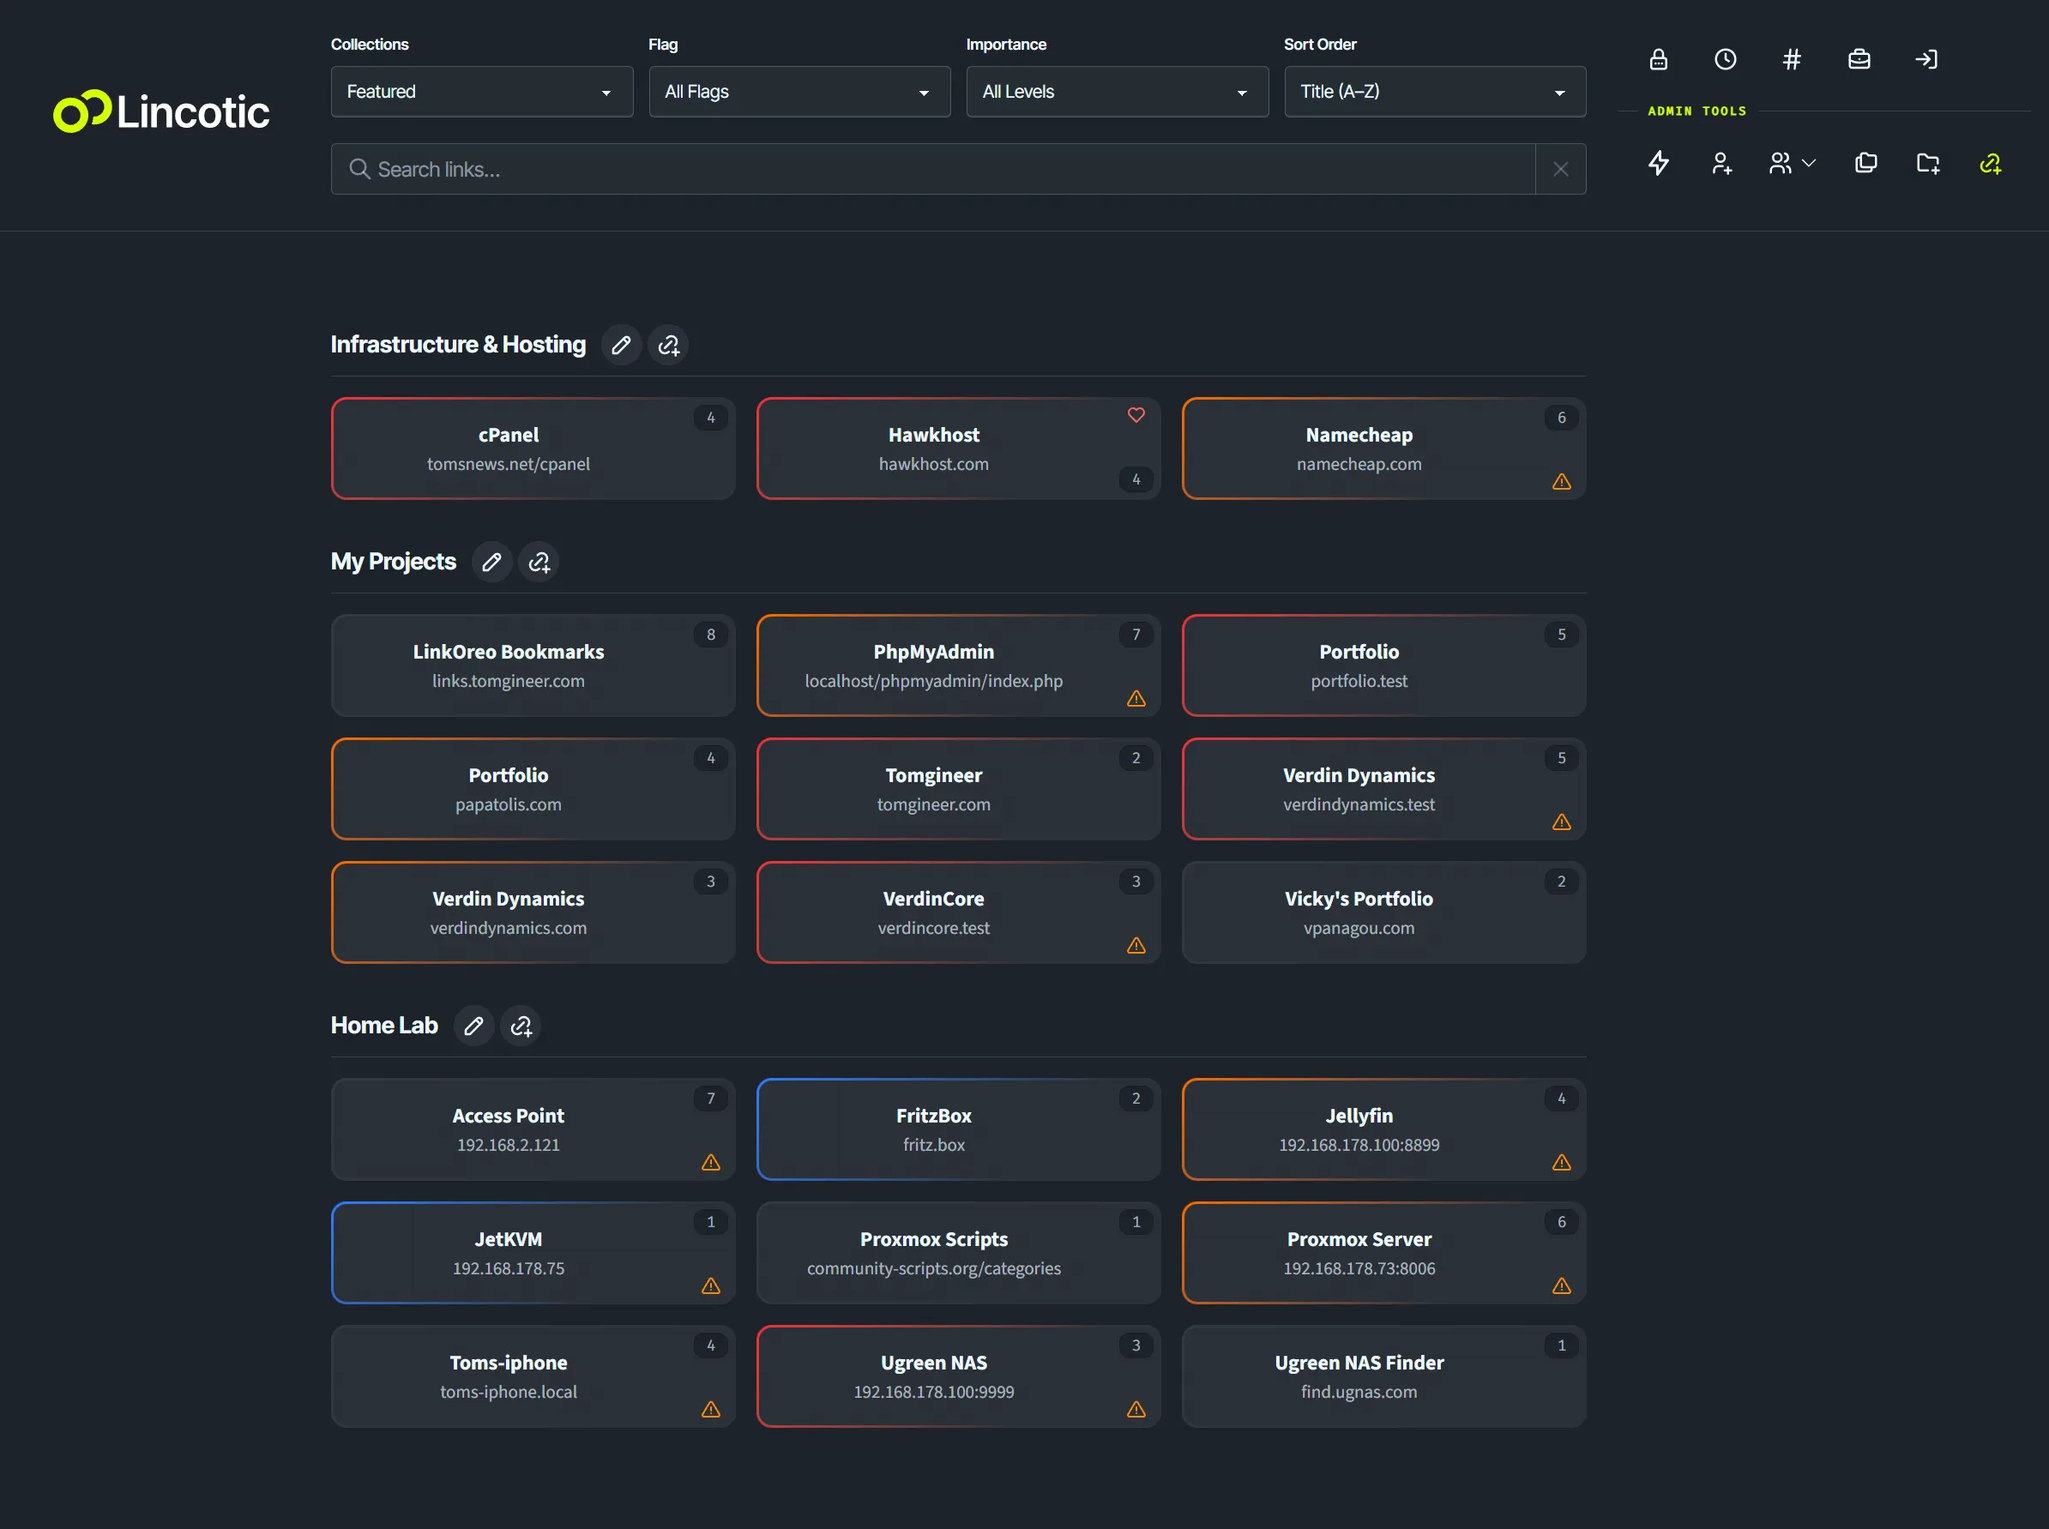
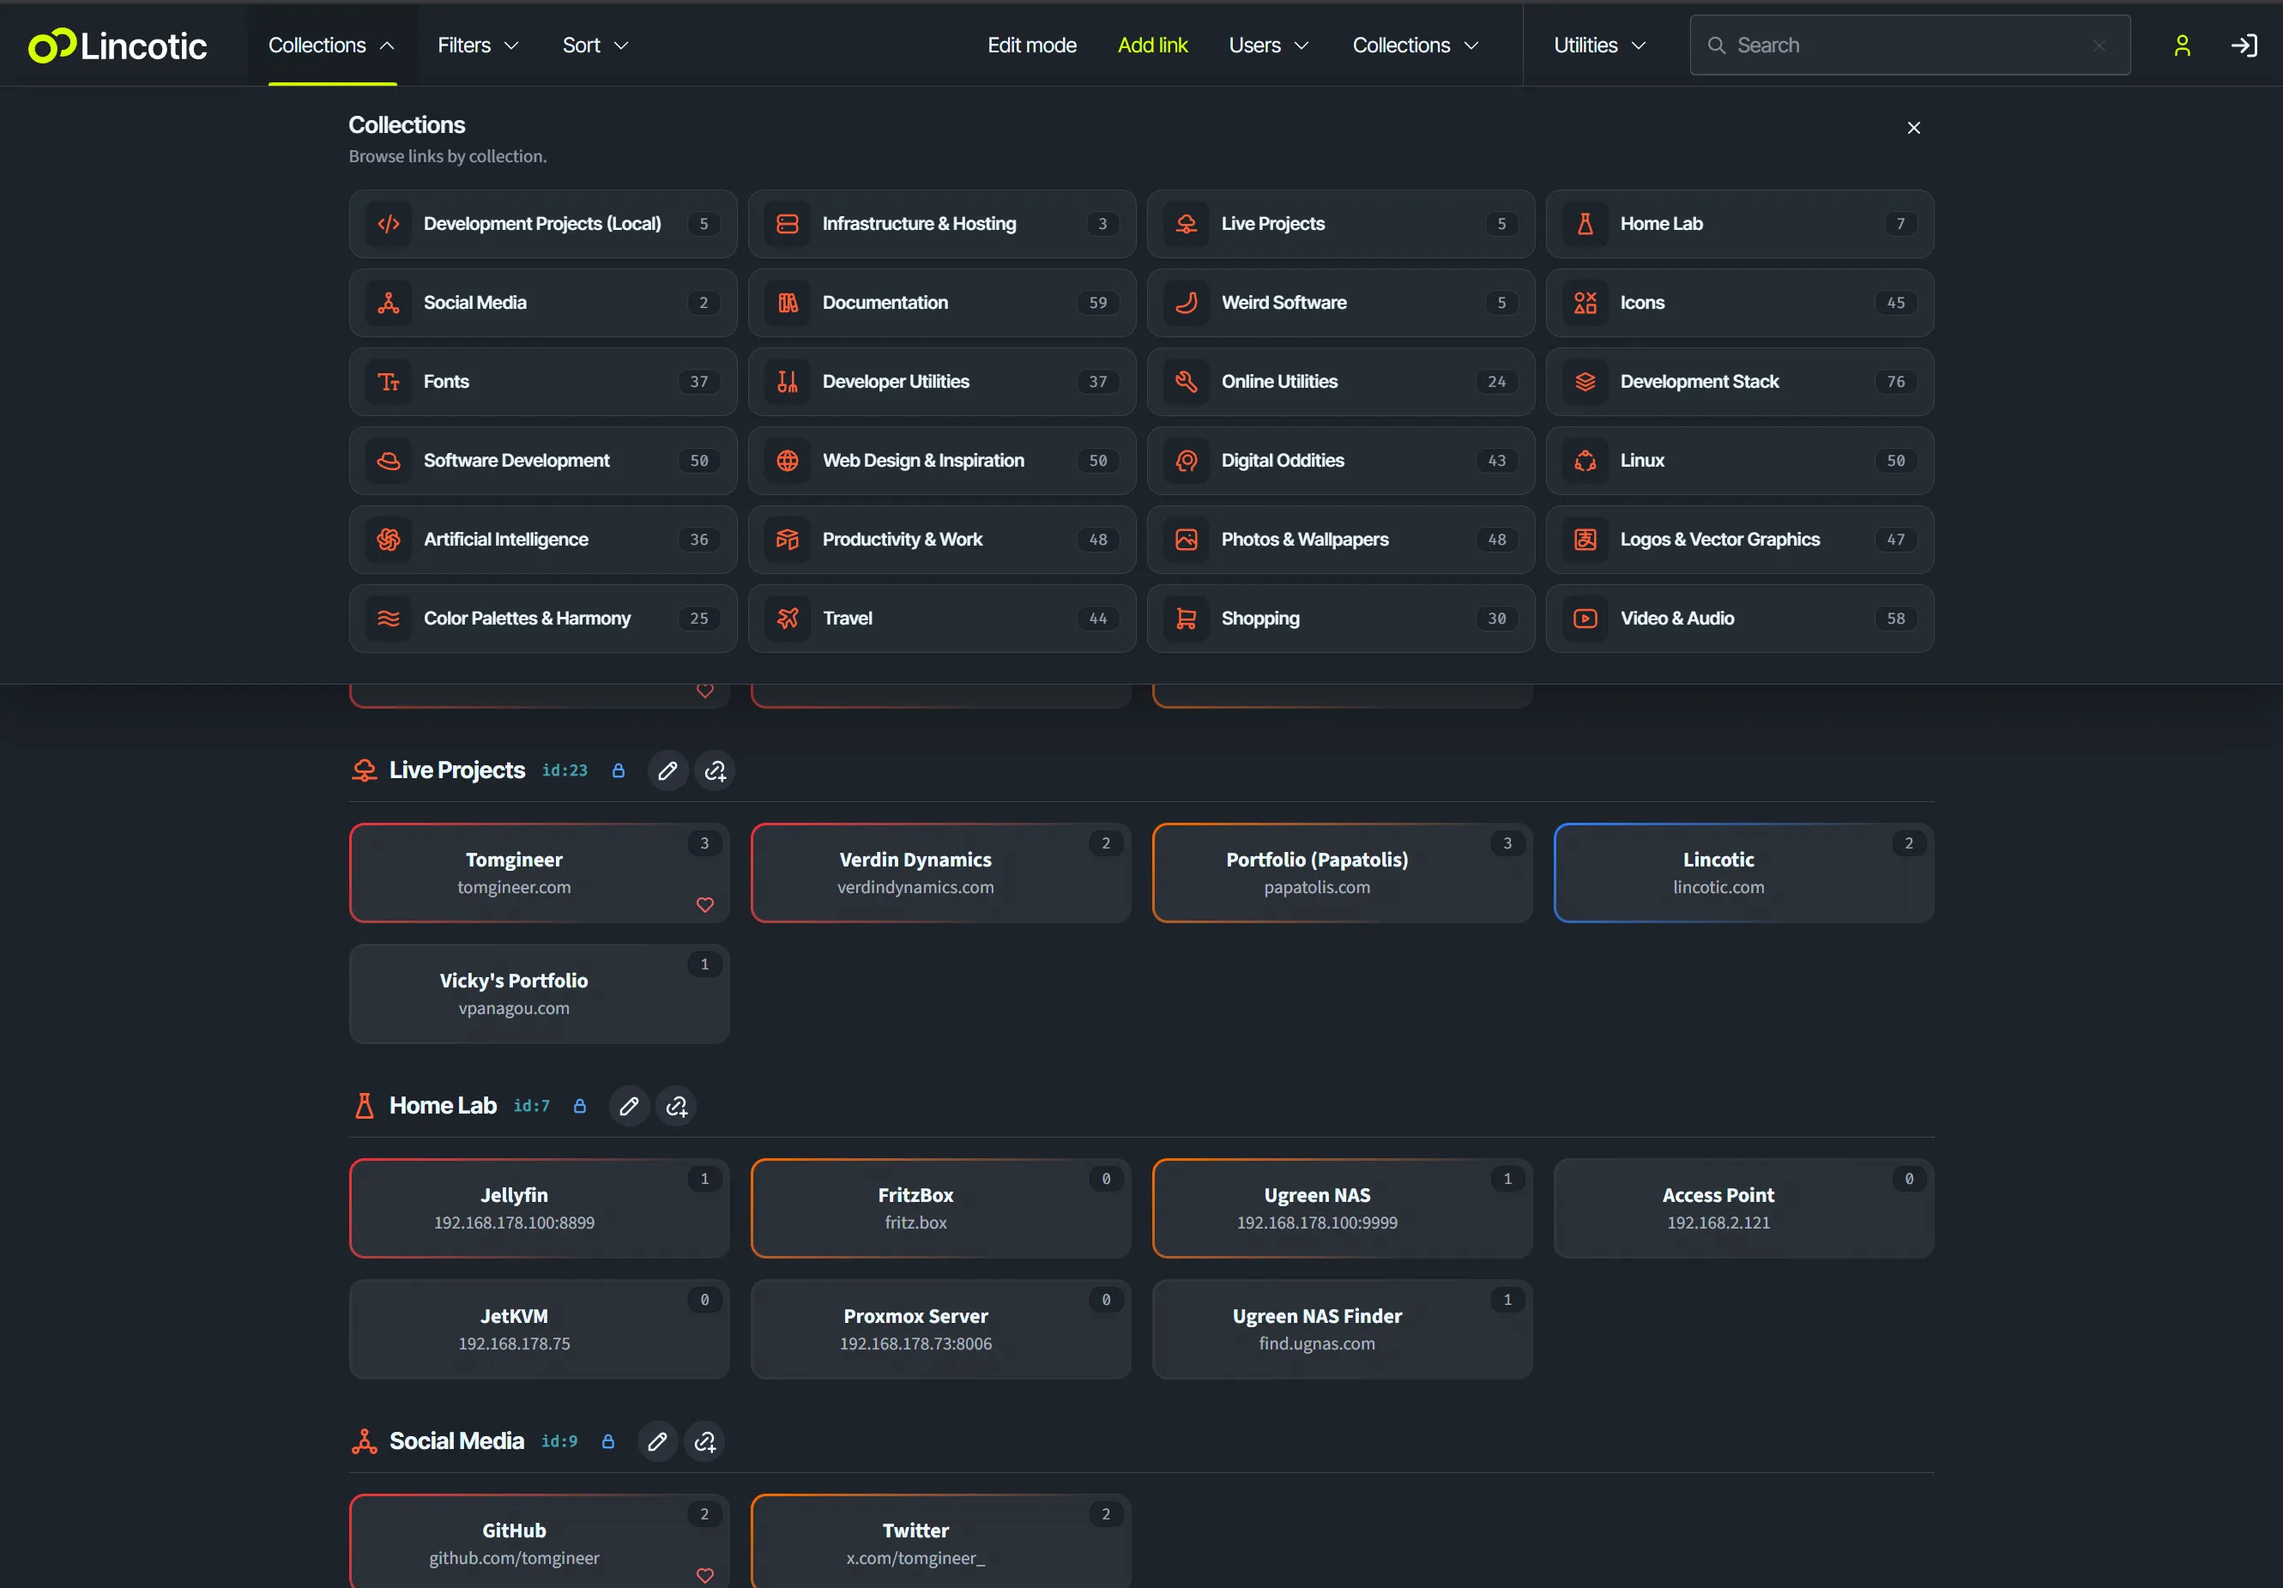
New Readme

diff --git a/README.md b/README.md
@@ -1,129 +1,146 @@
 # Lincotic
 
-### Your links, finally working like a system.
+### Your links, organized into personal hubs.
 
-Lincotic is a focused, self-hosted link library for people who have outgrown browser bookmark folders. It turns saved URLs into a structured, searchable workspace, complete with collections, priorities, review states, visibility controls, visit insights, and a polished administration experience.
+Lincotic is a focused, self-hosted link library for individuals and small teams that have outgrown browser bookmark folders. Every user gets an independent hub for organizing, searching, sharing, and maintaining useful links.
 
-Save less blindly. Find things faster. Keep the links that matter genuinely useful.
+Save with context. Find things quickly. Share only what should be public.
 
 ![Lincotic dashboard showing searchable collections, filters, link insights, and admin tools](lincotic.webp)
 
-## Bookmarks are easy to save. Lincotic makes them easy to use.
+## One installation, multiple personal hubs
 
-A bookmark without context quickly becomes noise. Lincotic gives every link a clear place, a useful state, and enough information to remain valuable long after it was added.
+Lincotic keeps every user's library separate while making public resources easy to browse.
 
-Instead of scrolling through an endless list, you can move naturally from broad collections to precise results: search across your library, filter by intent, sort by real activity, and spot the links that need attention at a glance.
+- The configured root user's hub is available at `/`.
+- Every active user has a public route at `/@username`.
+- Search, filters, collections, link totals, and visit totals are scoped to the selected user.
+- Signing in takes users directly to their own hub.
+- Inactive accounts and their outbound link redirects are not publicly accessible.
 
-## Organize with purpose
+The root hub is selected with `lincotic.rootUsername` in the environment configuration. Usernames contain lowercase letters and numbers so hub URLs remain simple and predictable.
 
-Build a library around the way you actually think and work.
+## A clear permission model
+
+Public browsing, personal ownership, and account administration are separate capabilities.
+
+| Capability | Visitor | User | Administrator |
+| --- | --- | --- | --- |
+| Browse public content in active hubs | Yes | Yes | Yes |
+| View hidden content in own hub | No | Yes | Yes |
+| Edit links and collections in own hub | No | Yes | Yes |
+| View or edit another user's hidden content | No | No | No |
+| Create and manage user accounts | No | No | Yes |
+
+Administrator access does not override library ownership. An administrator can create accounts, assign the `user` or `admin` role, update credentials, and activate or deactivate accounts, but each user's private content remains visible and editable only to its owner.
+
+## Organize links with purpose
+
+Build a library around the way you think and work.
 
 - Group links into named collections with descriptions and custom SVG icons.
-- Feature the collections that belong on your everyday dashboard.
-- Reorder collections to shape the workspace around your priorities.
-- Recover links without a collection through a dedicated **Unassigned** view.
-- Add titles and notes that preserve why a resource mattered in the first place.
+- Feature the collections that belong on the main dashboard.
+- Reorder collections to reflect your priorities.
+- Recover links without a collection through the dedicated **Unassigned** view.
+- Add titles and notes that preserve why a resource matters.
+- Mark individual links or complete collections as hidden.
 
-Lincotic gives structure without turning link management into a project of its own.
+Each link and collection belongs to one user. Ownership checks also apply to editing requests, so one account cannot load, change, move, reorder, or delete another account's content.
 
 ## Find the right link in seconds
 
-Search is global and practical, matching link titles, URLs, and descriptions. When browsing, focused controls let you narrow the library by collection, flag, and importance.
+Search works inside the current hub and matches link titles, URLs, and descriptions. Results can include links that are not assigned to a collection.
 
-Sort results by:
+Focused controls let you narrow a hub by:
 
-- Title, ascending or descending
-- Date added
-- Date updated
-- Most visited
-- Most recently visited
-- Oldest first
+- Collection, including featured and unassigned views
+- Favorite, pending review, or unflagged status
+- High, medium, low, or default importance
 
-Whether you remember a name, part of a domain, a note, or simply that you used something recently, Lincotic gives you a direct path back to it.
+Sort links by importance, title, date added, date updated, popularity, most recent visit, or oldest first.
 
-## Turn a link list into a decision surface
+## Turn bookmarks into a working dashboard
 
-Not every bookmark deserves the same attention. Lincotic makes that distinction visible.
+Lincotic adds useful signals to every saved destination.
 
-- **Importance levels** separate high-priority resources from everyday references.
+- **Importance levels** separate urgent resources from everyday references.
 - **Favorites** keep essential destinations easy to isolate.
-- **Pending review** flags links that need a second look.
-- **Hidden links** remain available to signed-in users while staying out of guest views.
-- **Visit counts and last-visited timestamps** reveal which resources are actually useful.
+- **Pending review** identifies links that need another look.
+- **Visit counts** show which resources are used most often.
+- **Last visited timestamps** bring recent activity into view.
+- **Hidden status** keeps selected content available only to its owner.
 
-These signals make the dashboard more than an archive: it becomes a working view of what matters now.
+Hub totals respect the same visibility rules as the link list, so private content does not leak through public counters.
 
-## Manage everything without leaving the dashboard
+## Edit without leaving the hub
 
-Administrative controls stay out of the way until they are needed. Enable edit mode to manage the library through focused, responsive dialogs instead of navigating through a separate back office.
-
-Administrators can:
+Owners can enable edit mode and manage their library through focused, responsive dialogs.
 
 - Create, update, and remove links and collections.
-- Move links between collections and enrich them with descriptions and status metadata.
+- Move links between collections.
+- Add descriptions, importance, favorites, review status, and visibility settings.
 - Paste or test destinations directly from the link editor.
 - Reorder collections from the interface.
-- Create and manage user accounts, roles, and active status.
 
-The result is a fast editorial workflow that keeps attention on the library itself.
+Standard users have full control of their own library. They do not need an administrator role to manage their content.
 
-## Share the useful parts, protect the rest
+## Share public resources, protect private ones
 
-Lincotic supports both open browsing and authenticated access. Public visitors can use the visible link library without an account, while selected links can be restricted to signed-in users, including protection on direct outbound redirects.
+Visitors can browse the visible content of any active user's hub without an account. Hidden links and links inside hidden collections are available only to the hub owner, including when someone tries to open a direct outbound redirect.
 
-Authentication and role-based administration are powered by CodeIgniter Shield. Cache-aware public pages keep repeat visits fast, while library changes invalidate stale guest views so published information stays current.
+Authentication and roles are powered by [CodeIgniter Shield](https://github.com/codeigniter4/shield). Public hub pages use owner-specific cache namespaces, and edits invalidate only the affected user's cached pages. This keeps public browsing fast without mixing content between users.
 
-Because Lincotic is self-hosted, the application, database, accounts, and usage data remain under your control.
+Because Lincotic is self-hosted, the application, database, accounts, link data, and usage data stay on infrastructure you control.
 
-## More than bookmarks
+## Useful tools in the same interface
 
-Lincotic also brings four frequently useful tools into the same interface:
+Lincotic includes four lightweight utilities alongside the link library.
 
 ### Password Generator
 
-Generate fresh standard and symbol-enhanced passwords across multiple lengths. Passwords are created with a cryptographically secure random source, are never stored, and can be copied with one click.
+Generate standard or symbol-enhanced passwords in multiple lengths. Passwords use a cryptographically secure random source, are never stored, and can be copied with one click.
 
 ### Date & Time Calculator
 
-See local time, ISO week information, calendar progress, Unix time, period countdowns, and long-range milestones in a live dashboard that updates every second.
+See local time, ISO week information, calendar progress, Unix time, period countdowns, and long-range milestones in a live dashboard.
 
 ### Hash Generator
 
-Turn one text input into MD5, SHA-1, SHA-256, SHA-384, and SHA-512 digests. Whitespace handling is explicit, byte count is visible, and every result is ready to copy.
+Turn text into MD5, SHA-1, SHA-256, SHA-384, and SHA-512 digests. Whitespace handling is explicit, byte count is visible, and every result is ready to copy.
 
 ### Work Time Tracker
 
-Track an eight-hour net workday with automatic break deductions, progress feedback, and an estimated finish time. The selected start time stays in the browser through local storage.
+Track an eight-hour net workday with automatic break deductions, progress feedback, and an estimated finish time. The selected start time is kept in browser local storage.
 
 ## Designed for everyday use
 
-Lincotic is intentionally compact, responsive, and direct. The interface adapts from wide workstations to mobile screens, keeps primary navigation within reach, and reduces controls when space is limited. Clear visual states, semantic controls, keyboard-friendly interactions, and focused editing flows make it comfortable to use throughout the day.
+Lincotic is compact, responsive, and direct. The interface adapts from wide workstations to mobile screens, keeps primary navigation within reach, and simplifies controls when space is limited. Clear visual states, semantic controls, keyboard-friendly interactions, and focused editing flows make it comfortable to use throughout the day.
 
 It is a natural fit for:
 
 - Personal knowledge and reference libraries
-- Browser start pages and daily launchpads
+- Shared start pages with individual user spaces
 - Homelabs and infrastructure dashboards
 - Project, research, and client resource collections
-- Small shared environments that need controlled administration
+- Small teams that need public sharing and private ownership
 
 ## Why self-host Lincotic?
 
-- **Ownership**: keep your link data and accounts on infrastructure you control.
-- **Clarity**: use purposeful metadata instead of deep, fragile folder trees.
-- **Speed**: reach important destinations through search, filters, and activity-based sorting.
-- **Privacy**: separate guest-visible resources from authenticated-only links.
-- **Focus**: get a dedicated link workspace without the weight of a general-purpose knowledge platform.
-- **Freedom**: inspect, adapt, and extend an MIT-licensed codebase.
+- **Ownership:** Keep links, accounts, and activity data on systems you control.
+- **Separation:** Give every user an independent library and public hub.
+- **Privacy:** Keep hidden content private even from other administrators.
+- **Speed:** Reach useful destinations through search, filters, and activity-based sorting.
+- **Focus:** Use a dedicated link workspace without the weight of a general-purpose knowledge platform.
+- **Freedom:** Inspect, adapt, and extend an MIT-licensed codebase.
 
-## Built on a modern, maintainable foundation
+## Built on a maintainable foundation
 
-Lincotic combines [CodeIgniter 4](https://codeigniter.com/) and [Shield](https://github.com/codeigniter4/shield) on the backend with [Tailwind CSS](https://tailwindcss.com/), [daisyUI](https://daisyui.com/), and [esbuild](https://esbuild.github.io/) on the frontend. MySQL or MariaDB provides persistent storage.
+Lincotic combines [CodeIgniter 4](https://codeigniter.com/) and CodeIgniter Shield on the backend with [Tailwind CSS](https://tailwindcss.com/), [daisyUI](https://daisyui.com/), and [esbuild](https://esbuild.github.io/) on the frontend. MySQL or MariaDB provides persistent storage.
 
-The project favors a small, understandable architecture: server-rendered pages, focused JavaScript enhancements, explicit validation, responsive components, and automated tests around core behavior.
+The application uses server-rendered pages, focused JavaScript enhancements, explicit validation, user-scoped data access, visibility-aware redirects, isolated public caches, and automated tests around core behavior.
 
 ## Open source
 
-Lincotic is released under the [MIT License](LICENSE). Explore the source, shape it around your workflow, and help make link management more intentional.
+Lincotic is released under the [MIT License](LICENSE). Explore the source, adapt it to your workflow, and help make link management more intentional.
 
-[View the repository](https://github.com/tomgineer/lincotic) · [Report an issue](https://github.com/tomgineer/lincotic/issues)
+[View the repository](https://github.com/tomgineer/lincotic) | [Report an issue](https://github.com/tomgineer/lincotic/issues)
